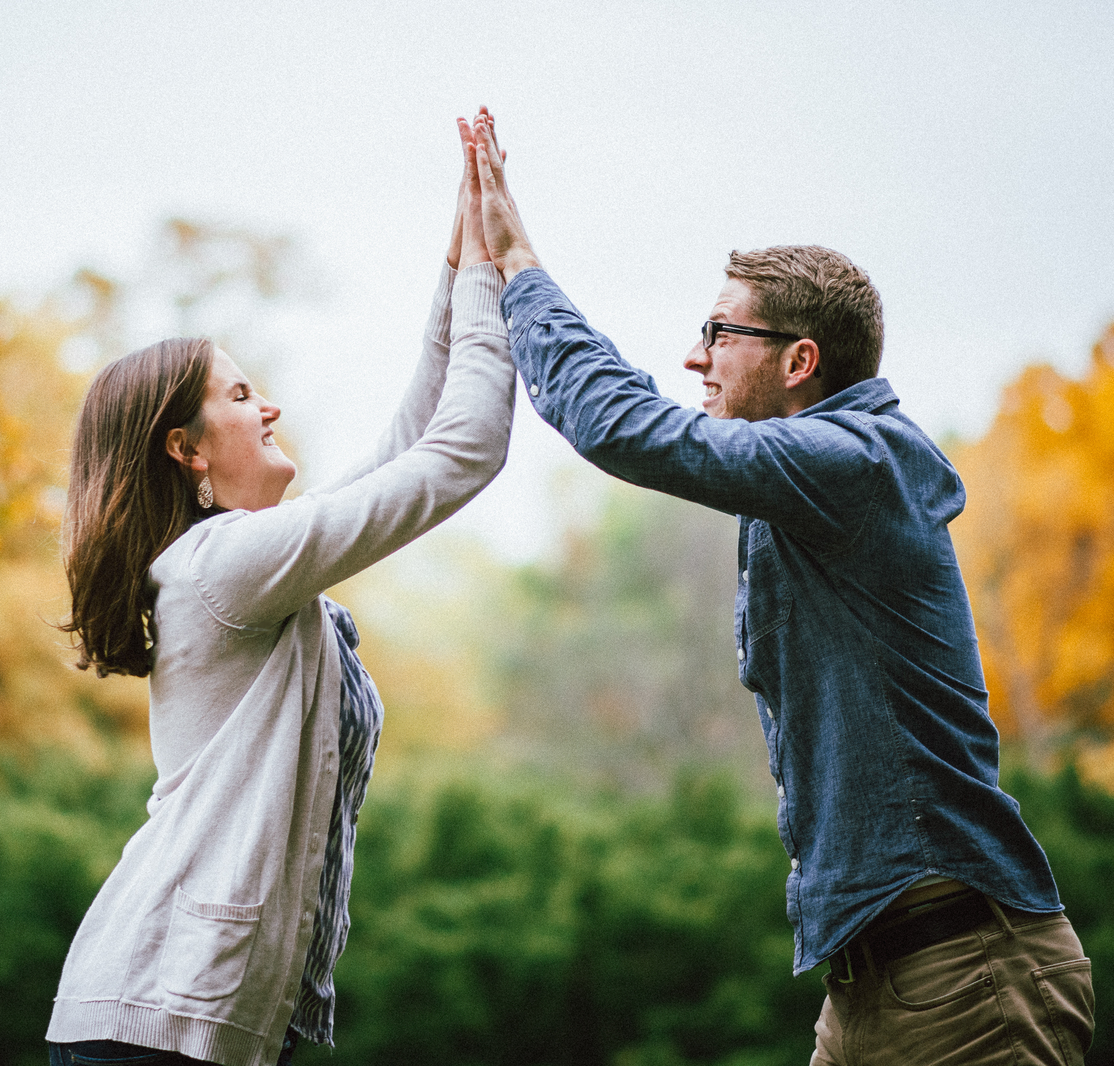
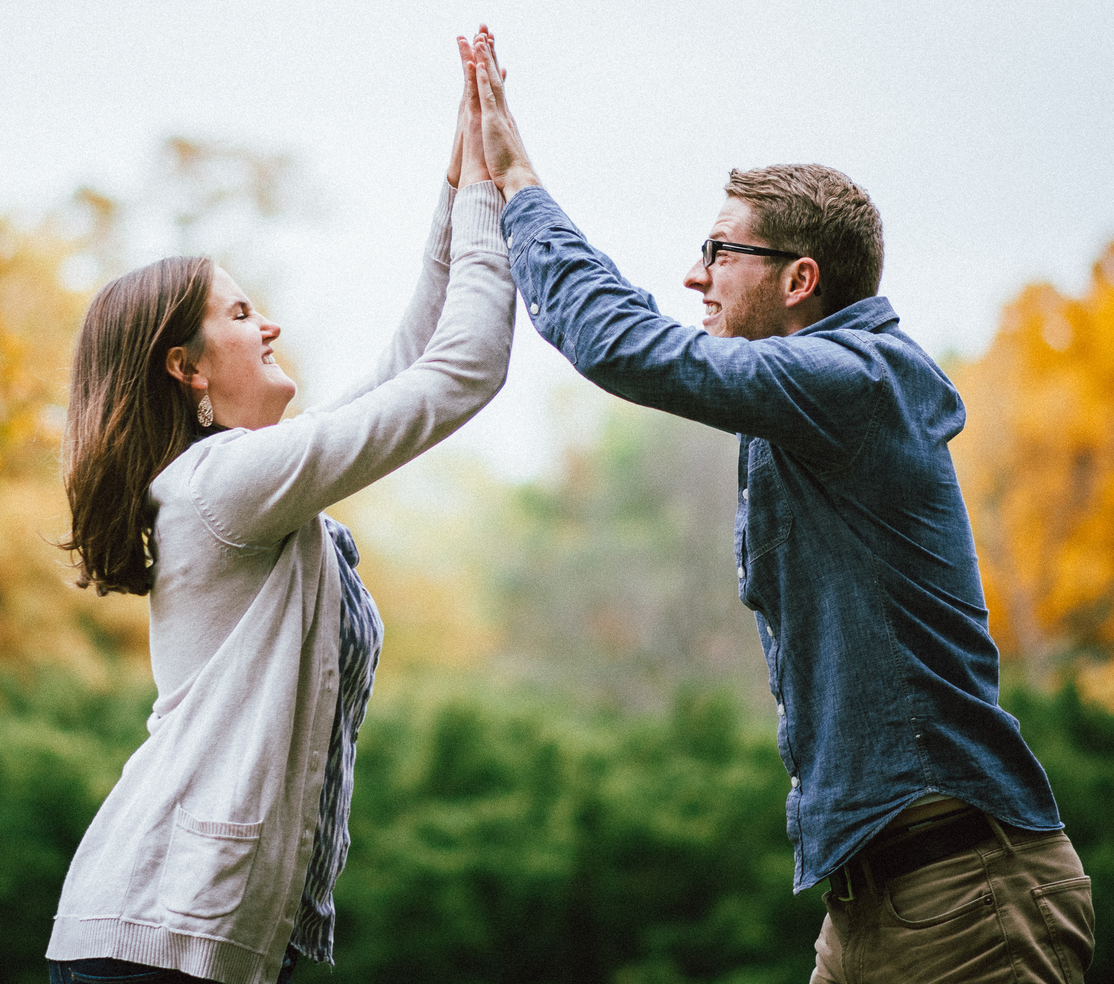
Added hisrc. Should be choosing between 3 different images.

diff --git a/css/app.css b/css/app.css
@@ -1,36 +1,16 @@
-html {
-    background: url(images/highfive2.jpg) no-repeat center center fixed;
-    -webkit-background-size: cover;
-    -moz-background-size: cover;
-    -o-background-size: cover;
-    background-size: cover;
-    min-height: 100%;
-}
-body {
-    background-color: transparent;
+#bg {
+    position: fixed;
+    top: 30px;
+    left: 0;
+    width: 100%;
     height: 100%;
-    overflow: scroll;
 }
-
-.table-striped>tbody>tr:nth-child(odd) {
-    background-color: #485563;
+#bg img {
+    display: block;
+    width: 100vw;
+    height: 100vh;
+    object-fit: cover;
 }
-.table-hover>tbody>tr:hover {
-    background-color: #7B8A9B !important;
-}
-.foreground-content {
-    background-color: #3F4C59;
-}
-.text-welcome-info {
-    padding-bottom: 60px;
-}
-.text-smaller {
-    font-size: 15px !important;
-}
-.btn-default:hover {
-    background-color: #29313A;
-}
-
 .modal-dialog {
     margin-top: 50px;
 }
@@ -41,7 +21,7 @@ body {
     /*margin-left: 20px;*/
     /*margin-right: 20px;*/
     margin: auto;
-    background: rgba(255,255,255,0.4);
+    background: rgba(255,255,255,0.6);
     background: #FFF \9;
     overflow: hidden;
     z-index: 3;
@@ -54,7 +34,7 @@ span.angletop {
     /*margin-right: 20px;*/
     margin: auto;
     border-top-width: 15px;
-    border-bottom: 10px solid rgba(255,255,255,0.4) !important;
+    border-bottom: 10px solid rgba(255,255,255,0.6) !important;
     border-bottom: 10px solid #FFF !important \9;
     z-index: 2;
     max-width: 580px;
@@ -63,7 +43,7 @@ span.angletop {
 }
 span.logoangletop {
     border: 50px solid transparent;
-    border-bottom: 35px solid rgba(255, 255, 255, 0.4) !important;
+    border-bottom: 35px solid rgba(255, 255, 255, 0.6) !important;
     border-bottom: 35px solid #FFF !important \9;
     z-index: 3;
     width: 0px;

diff --git a/js/app.js b/js/app.js
@@ -1,24 +1,28 @@
 if (Meteor.isClient) {
 
-  var bgCounter = 0;
-  var backgrounds = [
-        "/images/surveying-kingdom.jpg",
-        "/images/house-smiling.jpg",
-        "/images/bw-lower-corner.jpg",
-        "/images/bw-outline.jpg"
-      ];
-
-  Template.mainNav.events({
-        'click #changeBackground':function () {
-            bgCounter = (bgCounter+1) % backgrounds.length;
-            $('html').css("background", "url("+backgrounds[bgCounter]+") no-repeat center center fixed");
-            $('html').css("-webkit-background-size", "cover");
-            $('html').css("-moz-background-size", "cover");
-            $('html').css("-o-background-size", "cover");
-            $('html').css("background-size", "cover");
-        }
-
+  $(document).ready(function(){
+    $(".hisrc img").hisrc();
   });
+
+  var bgCounter = 0;
+  //var backgrounds = [
+  //      "/images/surveying-kingdom.jpg",
+  //      "/images/house-smiling.jpg",
+  //      "/images/bw-lower-corner.jpg",
+  //      "/images/bw-outline.jpg"
+  //    ];
+  //
+  //Template.mainNav.events({
+  //      'click #changeBackground':function () {
+  //          bgCounter = (bgCounter+1) % backgrounds.length;
+  //          $('html').css("background", "url("+backgrounds[bgCounter]+") no-repeat center center fixed");
+  //          $('html').css("-webkit-background-size", "cover");
+  //          $('html').css("-moz-background-size", "cover");
+  //          $('html').css("-o-background-size", "cover");
+  //          $('html').css("background-size", "cover");
+  //      }
+  //
+  //});
 }
 
 if (Meteor.isServer) {

diff --git a/index.html b/index.html
@@ -6,12 +6,12 @@
 
 <body>
 {{> mainNav}}
-
-
-
-
-
 <div id="padding" style="margin-top:60px"></div>
+
+
+
+
+
 
 <span class="logoangletop"></span>
 
@@ -41,11 +41,11 @@
 
 
 
-
-
-
-
-
+<!--Background-->
+<div id="bg" class="hisrc">
+    <!--<img id="background" class="" src="images/highfive_sm_highres.jpg" alt=""/>-->
+    <img src="images/highfive_sm_lowres.jpg" data-1x="images/highfive_sm_highres.jpg" data-2x="images/highfive2.jpg">
+</div>
 
 
 <script type="text/javascript">

diff --git a/templates/mainNav.html b/templates/mainNav.html
@@ -28,9 +28,7 @@
 
                 </ul>
                 <ul class="nav navbar-nav pull-right">
-                    <li>
-                        <a id="changeBackground" href="#">Change Background</a>
-                    </li>
+                    <!-- I should put something here -->
                 </ul>
 
             </div>
